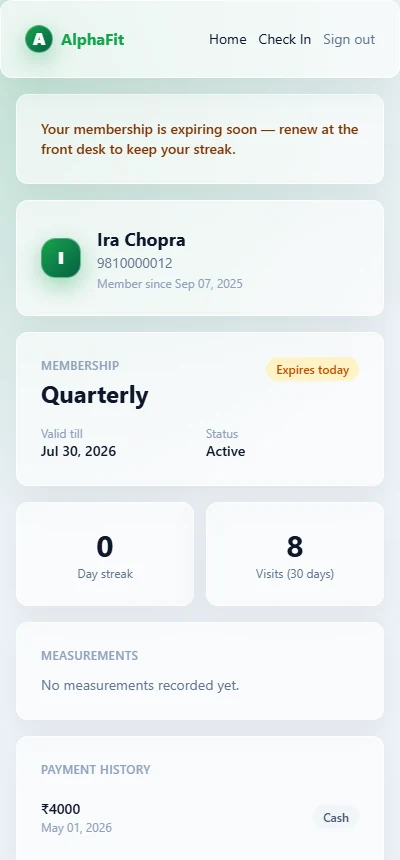
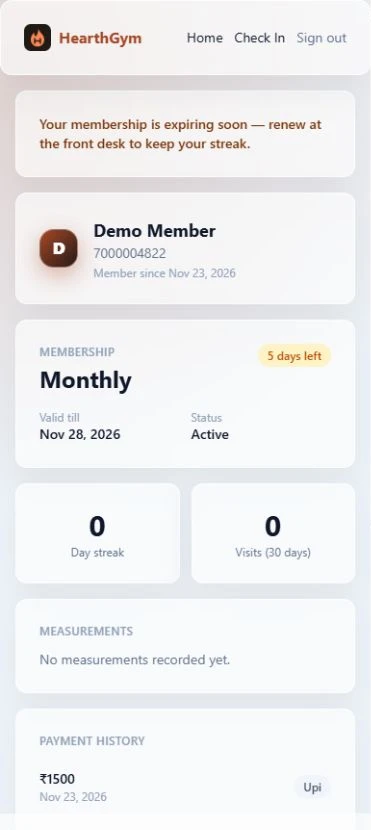
Replace legacy AlphaFit member app screenshot

diff --git a/src/app/page.tsx b/src/app/page.tsx
@@ -51,9 +51,9 @@ const SHOWCASE: Showcase[] = [
     ],
     shot: {
       src: "/screenshots/member-home.webp",
-      alt: "The member app on a phone, showing a renewal reminder, membership plan with expiry date, visit streak and payment history.",
-      width: 400,
-      height: 860,
+      alt: "HearthGym member app with demo data showing a renewal reminder, membership expiry, visit streak and payment history.",
+      width: 371,
+      height: 830,
       frame: "phone",
     },
   },
